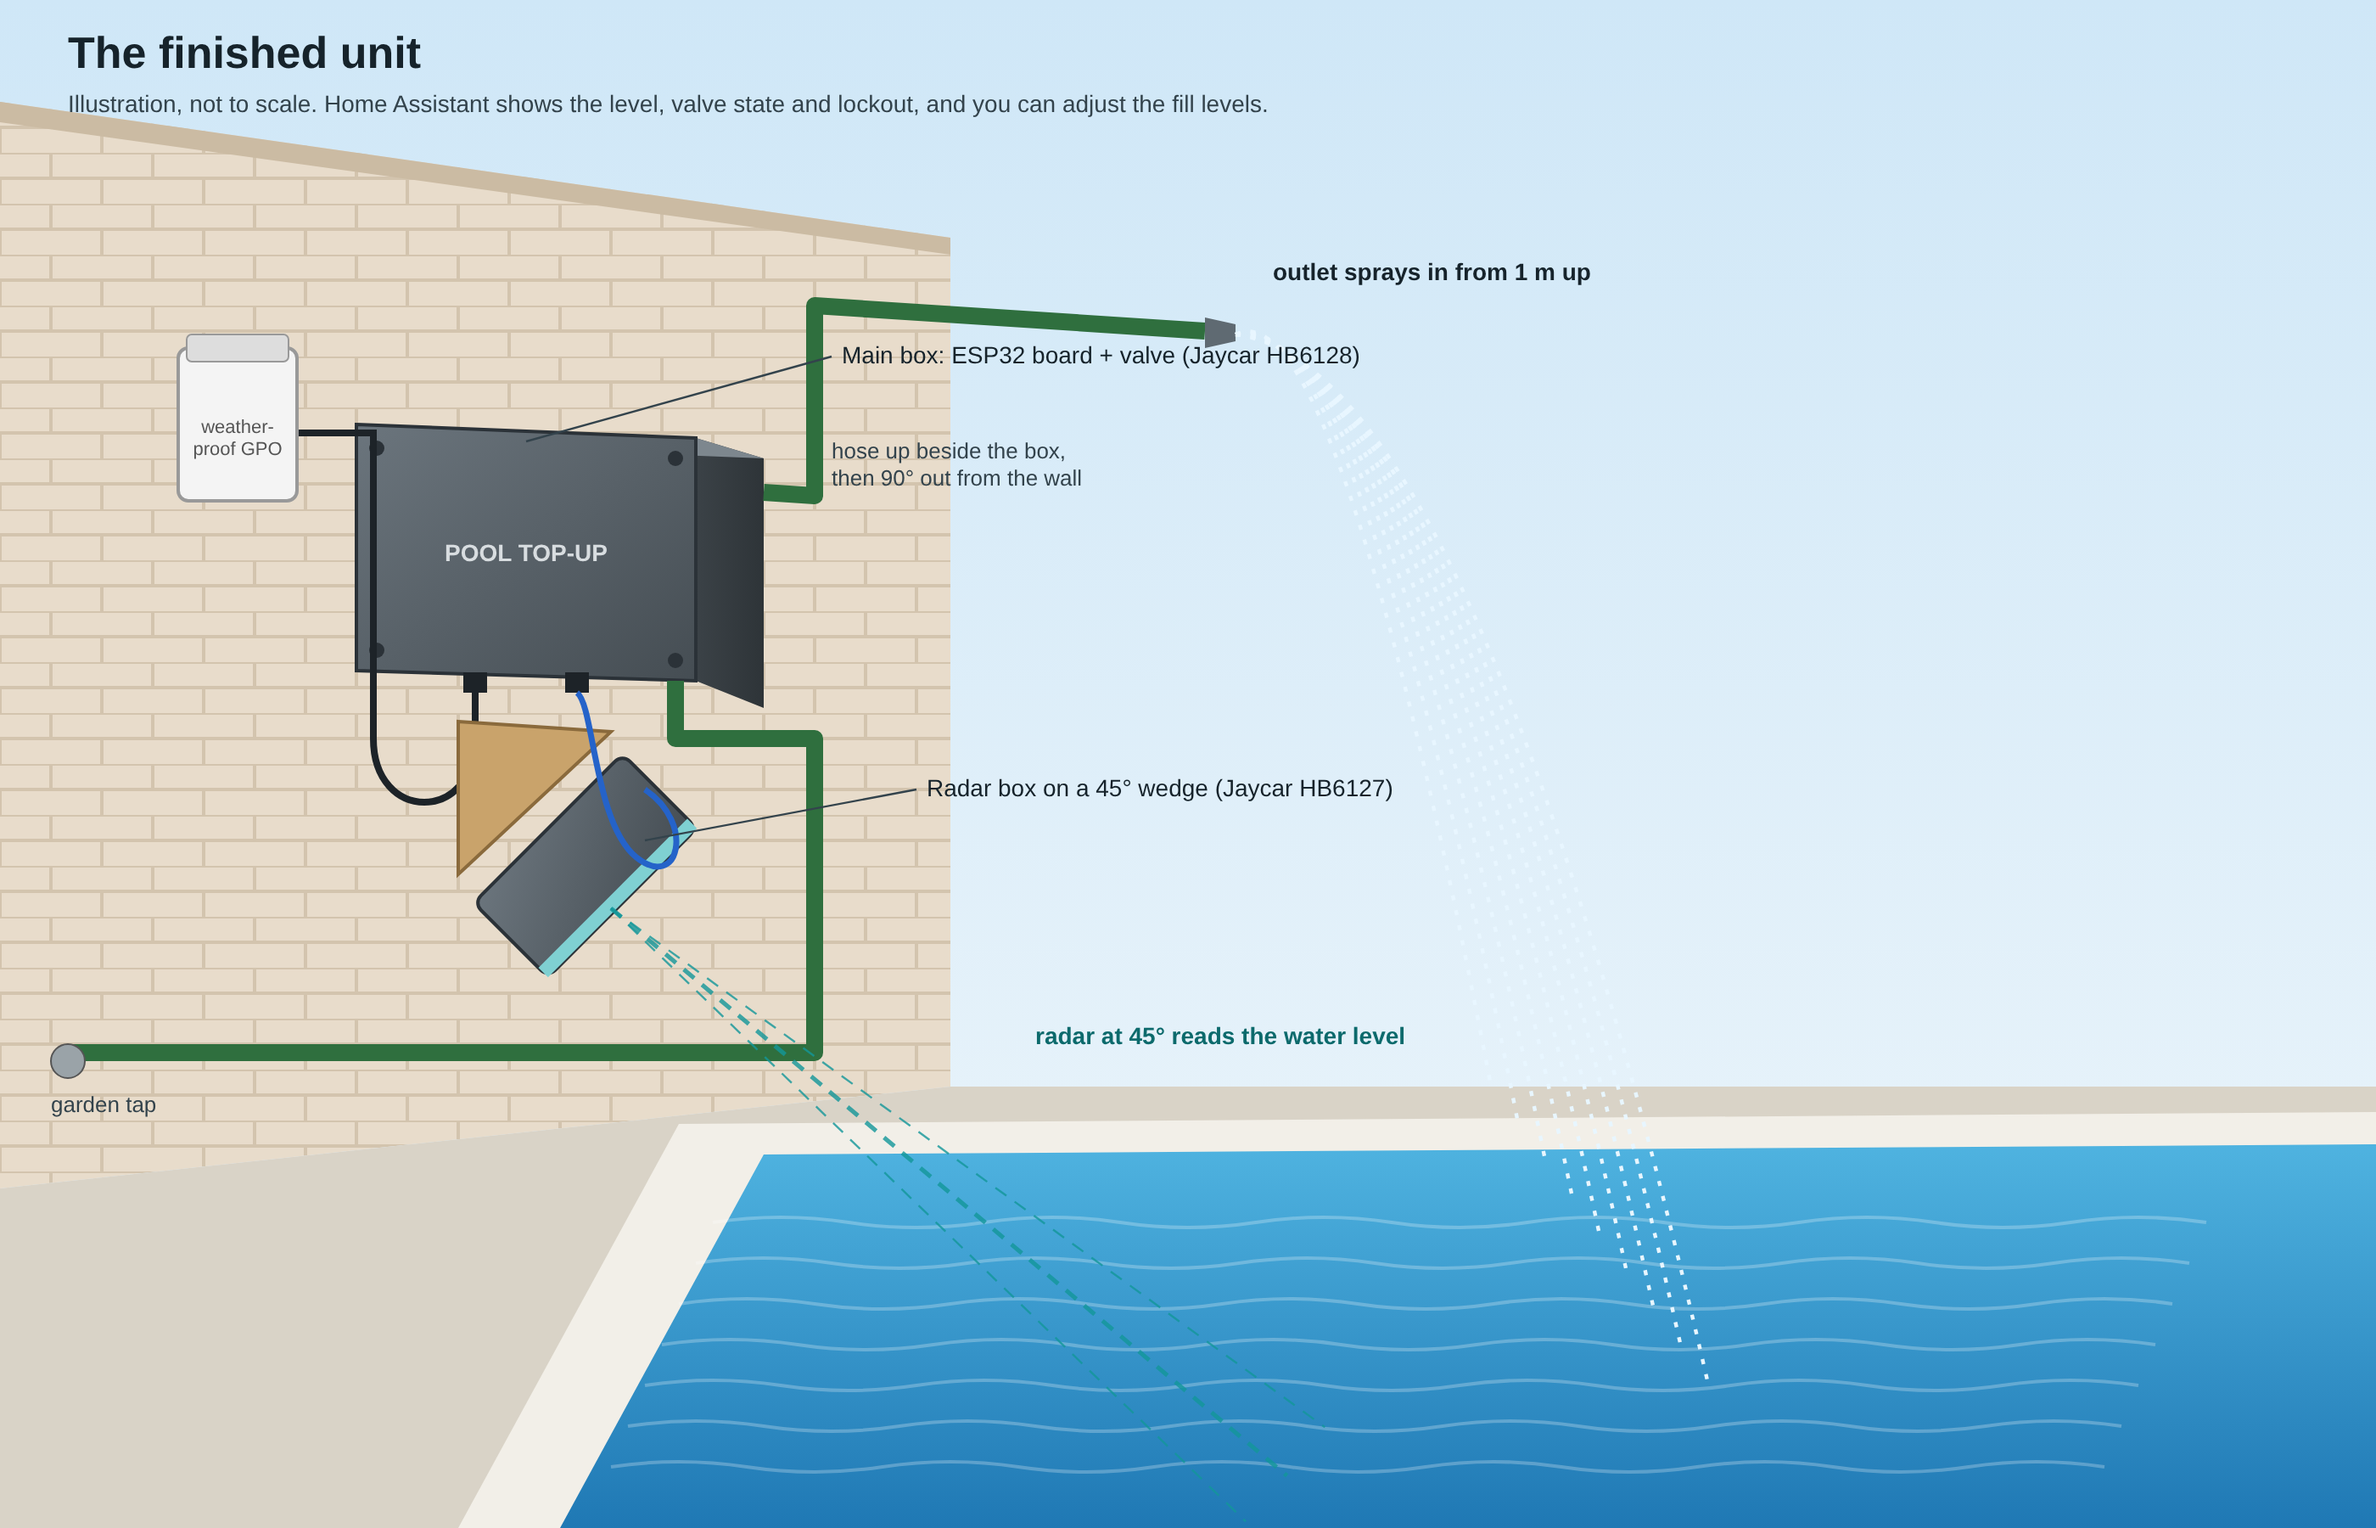
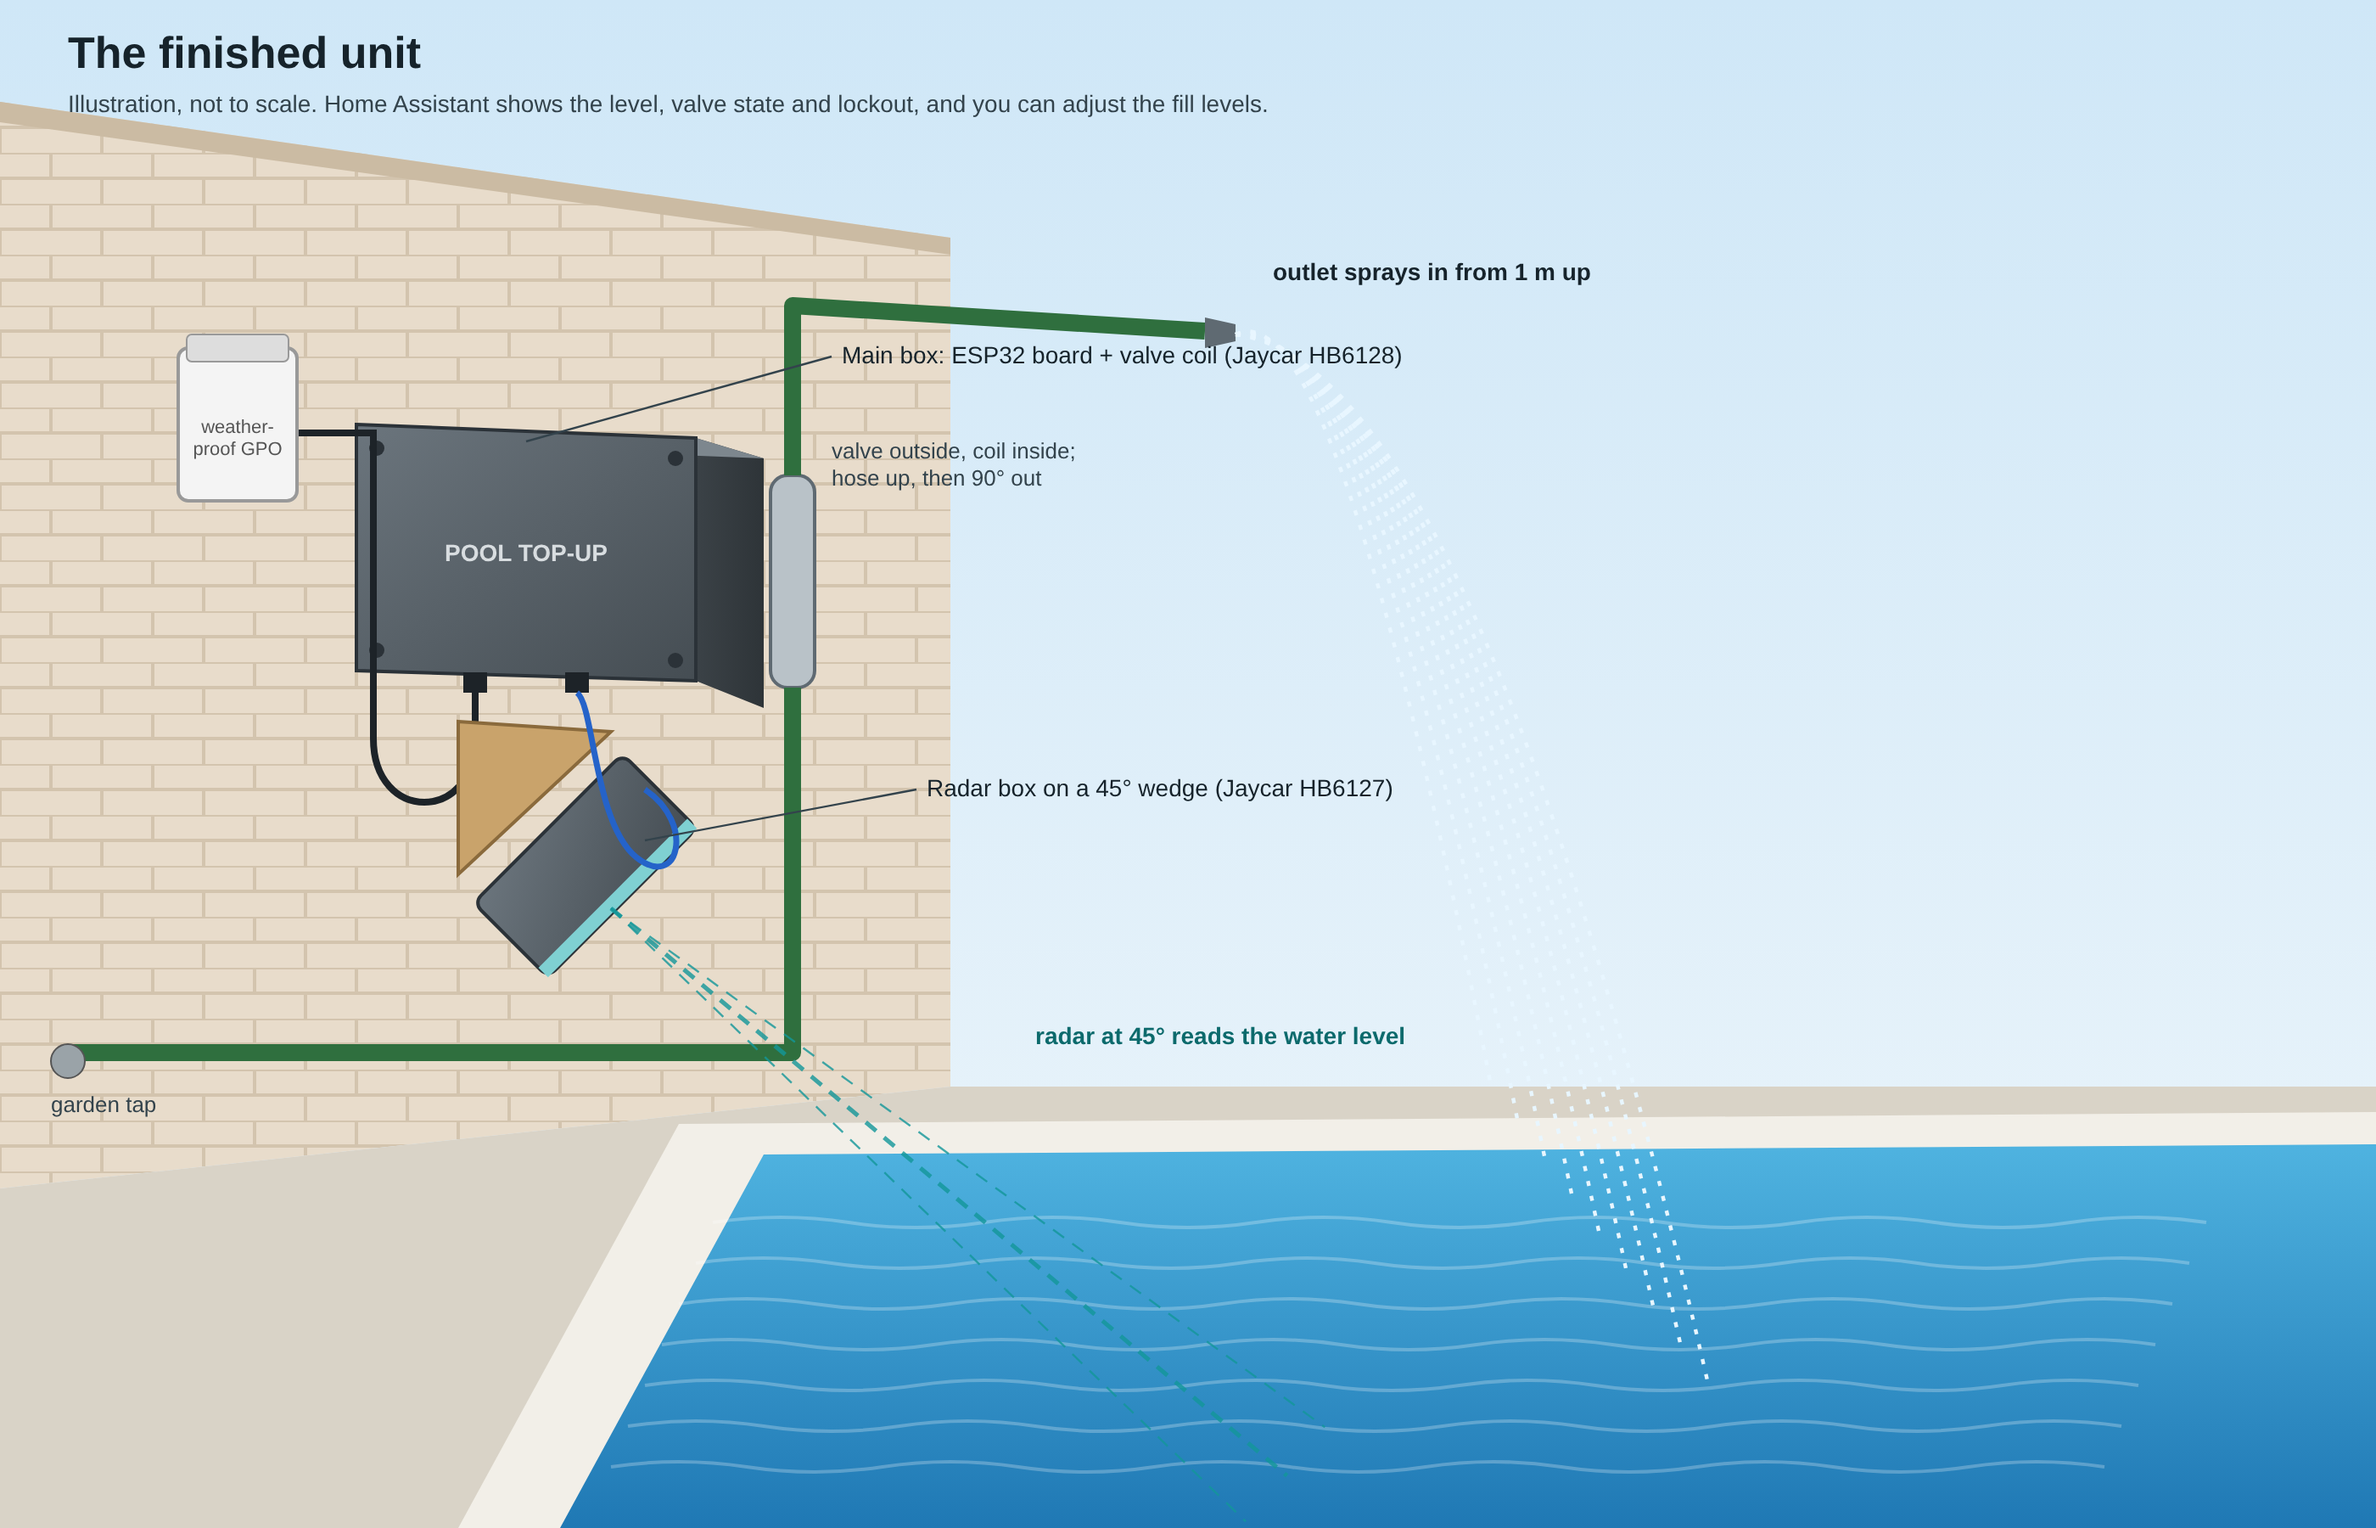
Valve body outside the box, coil through a sealed side cut-out
Claude-Session: https://claude.ai/code/session_01JSa2o9mc5d9zx9wEUeb16r

Changed region(s): [[0.2796, 0.1867, 0.4661, 0.6844], [0.4971, 0.2178, 0.5904, 0.2489]]

diff --git a/docs/BUILD.md b/docs/BUILD.md
@@ -111,14 +111,17 @@ Follow **[ESPHOME.md](ESPHOME.md)**, then come back here.
 
 ![Inside the main box](../mounting/main-box-inside.png)
 
+The **valve body stays outside** the box, clamped upright to the box's right side. Only the **coil** comes into the box, through a sealed cut-out. No water goes inside the box.
+
 1. Print **[drilling-template.pdf](../mounting/drilling-template.pdf)** at **100% / Actual size**, and measure the 50 mm bar to confirm the scale.
-2. Before you drill, hold your valve, its bottom fitting and its top elbow upright against the inside right wall. They must fit in **about 105 mm**. If they don't, clamp the valve to the **outside** of the box's right side instead, and only drill a small sealed hole for the coil wires.
-3. Tape the template on, centre-punch each cross, and drill:
-   - **Bottom face:** 3 mm drain, two 12.5 mm holes for PG7 glands (12V and radar), and the water inlet (size to suit your fitting).
-   - **Right face, near the top:** the outlet.
-   - **Radar box:** one 12.5 mm hole for its PG7 gland.
-4. Fit the glands. Fit the 4 standoffs for the board on the left side of the main box.
-5. Stand the valve upright on the right with **flow upward**, the coil facing left, and hold it with two P-clips. Fit the inlet through the bottom and the elbow and outlet through the side, using thread tape on every thread. Seal the outside of each hole with neutral-cure silicone.
+2. Hold the valve against the box's right side, upright with **flow going up** and the coil facing the box. Mark the coil's outline. The template's 30 × 30 mm square is only a guide, so **cut to suit your coil**.
+3. Tape the template on and centre-punch each cross, then:
+   - **Bottom face:** drill the 3 mm drain and two 12.5 mm holes for the PG7 glands (12V and radar).
+   - **Right face:** drill the corners of the coil cut-out, cut between them and file it to a snug fit. Drill the two P-clip screw holes.
+   - **Radar box:** drill one 12.5 mm hole for its PG7 gland.
+4. Fit the glands, and fit the 4 standoffs for the board.
+5. Push the coil through the cut-out and clamp the valve body to the outside with the two P-clips. Seal around the coil **inside and out** with neutral-cure silicone.
+6. Fit the inlet fitting to the **bottom** of the valve and the hose tail to the **top**, with thread tape on both.
 
 ---
 
@@ -126,7 +129,7 @@ Follow **[ESPHOME.md](ESPHOME.md)**, then come back here.
 
 ![Valve and diode](images/valve-diode.png)
 
-1. Solder the **1N4001 across the coil's two tabs**, with the **stripe on A**.
+1. Inside the box, solder the **1N4001 across the coil's two tabs**, with the **stripe on A**.
 2. MOSFET **OUT+** → tab **A**, MOSFET **OUT−** → tab **B**. Heatshrink both.
 3. Fit wire 2 (12V) to the MOSFET's **VIN+** screw and wire 14 (GND) to **VIN−**.
 4. **Radar:** in the radar box, connect the radar's 5V, GND, TX and RX to the 4-core cable. Feed the cable through both glands, then connect it to the board's radar terminal: **radar TX → TX, radar RX → RX**.
@@ -145,7 +148,7 @@ Follow **[ESPHOME.md](ESPHOME.md)**, then come back here.
 2. Cut a **45°** end on the timber offcut and screw it to the wall about **20 mm below** the main box.
 3. Fix the radar box's flange to the sloped face with the **lid facing the pool**. Lay your phone on the lid and use a level app to confirm **45°**.
 4. Give both cables a **drip loop**: they should dip below the glands before going up.
-5. Run the hose **up beside the box**, then turn it **90° out from the wall** at the top so it sprays into the pool from about **1 m up**. Fix it so it can never fall into the water. That air gap is your backflow protection.
+5. Connect the tap hose to the **bottom** of the valve. From the **top** of the valve, run the hose **up beside the box**, then turn it **90° out from the wall** with an elbow so it sprays into the pool from about **1 m up**. Fix it so it can never fall into the water. That air gap is your backflow protection.
 6. Plug the plugpack into a **covered or weatherproof** power point.
 7. Fit the lids. Snug the screws evenly so the seals compress.
 
@@ -171,4 +174,4 @@ Follow **[ESPHOME.md](ESPHOME.md)**, then come back here.
 | MOSFET LED on but no click | Valve wiring | Check OUT+ to A and OUT− to B, and look for 12V at the tabs when it's on |
 | 12V supply cuts out when the valve opens | Diode backwards (a short) | Unplug immediately and turn the diode around (stripe on A) |
 | **Fill Lockout** turned on | Fill took longer than **Max Fill Time** | Look for a leak or a low tap pressure, then press **Reset Fill Lockout** |
-| Water in the box | A leaking fitting or gland | Re-tape the threads, re-seal, and check the drain hole is clear |
+| Water in the box | Leak around the coil cut-out or a gland | Re-seal the coil cut-out inside and out, tighten the glands, and check the drain hole is clear |

diff --git a/docs/PARTS.md b/docs/PARTS.md
@@ -30,22 +30,21 @@ Codes are the shop's own product codes. **Core** = Core Electronics, **Jaycar** 
 | 1 | Enclosure with mounting flange 115 × 90 × 55, dark grey | Jaycar **HB6127** | Radar (about $19) |
 | 1 pack | PG7 cable glands (need 3) | Core **FIT0728** | Two on the main box, one on the radar box |
 | 4 | M3 × 8 mm nylon or brass standoffs + M3 screws | Jaycar | Hold the perfboard |
-| 2 | Small P-clips (to suit the valve body) | Bunnings | Hold the valve upright |
+| 2 | P-clips to suit the valve body + stainless screws | Bunnings | Clamp the valve upright to the outside of the box |
 | 1 | Offcut of 90 × 45 timber, about 150 mm | Bunnings / shed | The 45° wedge |
 | 1 | Velcro or double-sided foam pad | Bunnings | Under the MOSFET's free end |
 | 6 | Exterior screws + wall plugs to suit your wall | Bunnings | 4 for the main box, 2 for the wedge |
 
 ## Plumbing
 
-Check the thread on your valve before buying. The ROB-10456 is 3/4" BSP.
+The valve body is outside the box, so no fittings go through the box. Check the thread on your valve before buying. The ROB-10456 is 3/4" BSP.
 
 | Qty | Part | Where | Notes |
 |---|---|---|---|
-| 1 | 3/4" BSP to garden-hose tap adaptor or hose tail | Bunnings | Inlet, through the bottom of the box |
-| 1 | 3/4" BSP 90° elbow | Bunnings | On top of the valve, turns out through the side |
-| 1 | 3/4" BSP hose tail | Bunnings | Outlet, through the side wall |
-| 1 | 90° elbow / hose joiner | Bunnings | At the top of the riser, turns the hose out from the wall |
-| — | Garden hose or 13 mm poly pipe + clamps/saddles | Bunnings | Tap → box, and box → outlet |
+| 1 | 3/4" BSP to garden-hose tap adaptor or hose tail | Bunnings | Inlet, on the bottom of the valve |
+| 1 | 3/4" BSP hose tail | Bunnings | Outlet, on the top of the valve |
+| 1 | 90° hose elbow | Bunnings | At the top of the riser, turns the hose out from the wall |
+| — | Garden hose or 13 mm poly pipe + clamps/saddles | Bunnings | Tap → valve, and valve → outlet |
 | 1 | Thread tape | Bunnings | All threaded joints |
 
 ## Consumables
@@ -54,7 +53,7 @@ Check the thread on your valve before buying. The ROB-10456 is 3/4" BSP.
 |---|---|
 | 60/40 tin-lead rosin-core solder, 0.8 mm | Much easier than lead-free |
 | Heatshrink tubing, assorted | Valve joints and the rejoined power lead |
-| Neutral-cure silicone (outdoor) | Seal the pipe holes. Neutral-cure won't corrode the electronics |
+| Neutral-cure silicone (outdoor) | Seal the coil cut-out. Neutral-cure won't corrode the electronics |
 | Cable ties | Tidy cables, hold the radar box to the wedge if needed |
 
 ## Tools
@@ -65,7 +64,7 @@ Check the thread on your valve before buying. The ROB-10456 is 3/4" BSP.
 | Multimeter | Polarity, 12V and 5V checks, and checking for shorts (continuity beep) |
 | Side cutters and wire strippers | Cutting header strips and wire |
 | Helping hands or a small vice | Holds the board while soldering (optional, but it helps) |
-| Drill + 3 mm bit + step drill (to 28 mm) | Drain, gland and pipe holes |
+| Drill, 3 mm bit, step drill (to 13 mm) and a small file | Drain and gland holes, coil cut-out |
 | Saw and mitre box | Cutting the 45° wedge |
 | Screwdrivers (small flat for terminals, Phillips) | Terminals and mounting |
 | Heat gun or lighter | Heatshrink |

diff --git a/README.md b/README.md
@@ -53,7 +53,7 @@ ESPHome config: [`esphome/pool-level.yaml`](esphome/pool-level.yaml). For step-b
 
 ![Inside the main box](mounting/main-box-inside.png)
 
-- Main box on the wall: board on the left, valve **upright on the right** with flow going up. Water comes in through the bottom, and the outlet leaves the right side near the top. The hose then runs **up beside the box** and turns **90° out from the wall** at the top. Cables enter through PG7 glands in the bottom, and there's a 3 mm drain hole. Nothing goes through the top.
+- The main box goes on the wall with the board inside. The **valve body is clamped upright outside the box's right side**, and only its **coil comes into the box** through a sealed cut-out, so no water ever goes inside the box. The tap hose connects to the bottom of the valve. From the top, the hose runs **up beside the box** and turns **90° out from the wall**. Cables enter through PG7 glands in the bottom, and there's a 3 mm drain hole.
 - For power, cut the DC lead about 10 cm from the plug, feed it through the gland, and rejoin it stripe to stripe so the polarity stays the same. The plugpack itself must be plugged in under cover or into a weatherproof outlet.
 - The radar box sits on a 45° timber wedge (or a hinge and slotted strap) about 110 mm below the main box. Check the angle with a phone level app.
 - Before sealing the radar box, bench-test that the reading through the lid matches a tape measure.
